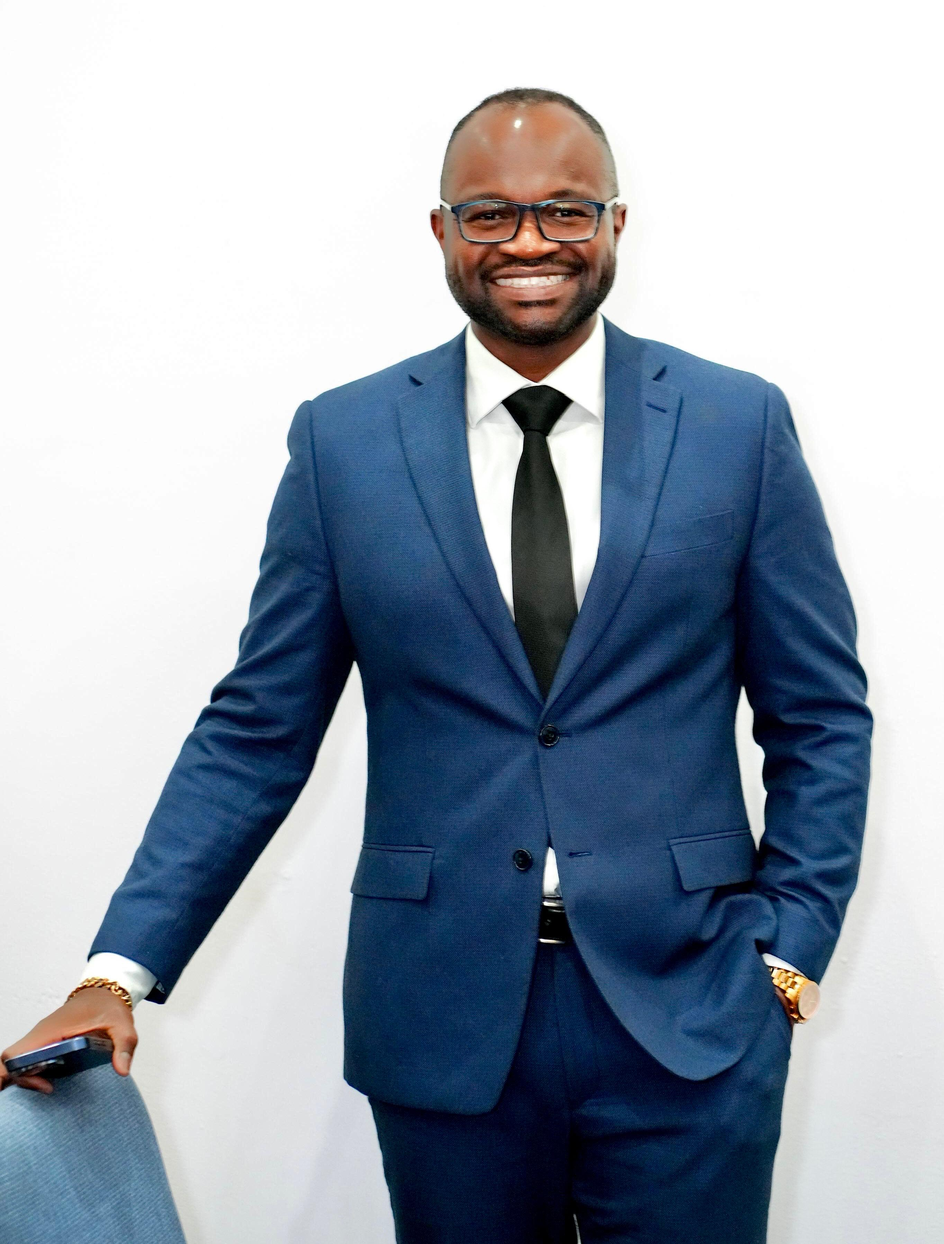
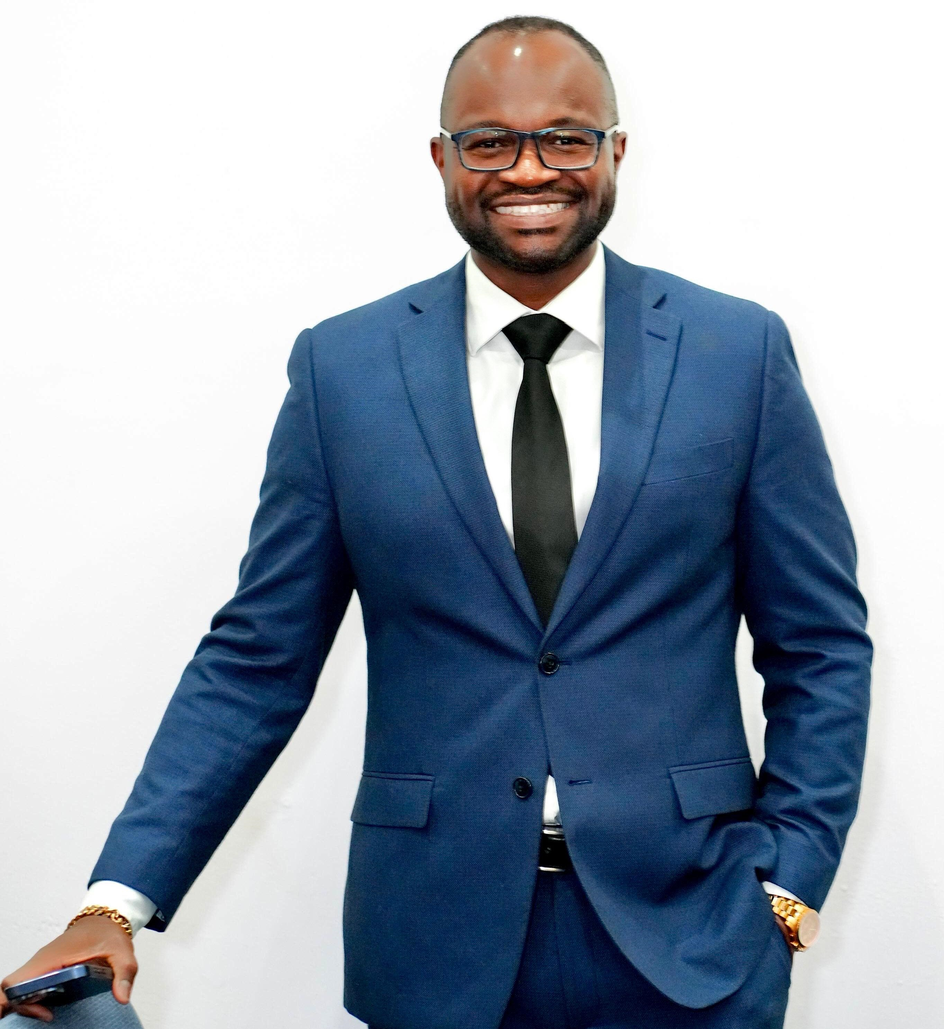
Added Liberia Project And Edited Pic For Donald

Changed region(s): [[0.0, 0.0, 0.9351, 1.0], [0.3117, 0.3097, 0.3429, 0.3406]]

diff --git a/about.html b/about.html
@@ -116,13 +116,15 @@
         <div class="row gy-5">
 
           <div class="col-lg-6 col-md-6 member" data-aos="fade-up" data-aos-delay="100">
-            <div class="">
+            <div>
               <img src="assets/img/donald.jpg" alt="" class="img-fluid">
             </div>
+          </div>
+          <div class="col-lg-6 col-md-6 member" data-aos="fade-up" data-aos-delay="100">
             <div class="member-info text-center">
               <h4>Donald Buaku,<br> AICP, assoc. AIA</h4>
               <span>President / Lead Designer</span>
-              <p class="text-start">
+              <p class="text-start mb-2">
                 Donald Buaku brings two decades of urban design, urban planning, land development and architecture
                 experience. He is a
                 Certified Planner with the American Institute of Certified Planners, and an Associate of the American
@@ -133,7 +135,7 @@
                 graduated from the
                 University of Michigan, Ann Arbor, with two master’s degrees in urban design and urban planning.
               </p>
-              <p class="text-start">
+              <p class="text-start mb-2">
                 Donald is passionate about design, placemaking and infrastructure planning - with the consciousness that
                 placemaking is
                 only successful if the underlying infrastructure is well-planned to support it, and the surrounding

diff --git a/recent-work.html b/recent-work.html
@@ -467,6 +467,25 @@
             </div>
             <!-- End Projects Item -->
 
+            <div class="col-lg-4 col-md-6 portfolio-item filter-global">
+              <div class="portfolio-content h-100">
+                <img src="assets/img/visioning/visioning-2.jpg" class="img-fluid" alt="">
+                <div class="portfolio-info">
+                  <h4>Liberia</h4>
+                  <p>
+                    Grain of Paradise Ecolodge, Sembehun, Liberia - master planning, site design,
+                    architecture, sustainability systems
+                    planning.
+                  </p>
+                  <a href="assets/img/visioning/visioning-2.jpg" title="Grain of Paradise Ecolodge, Sembehun, Liberia - master planning, site design,
+                              architecture, sustainability systems
+                              planning." data-gallery="portfolio-gallery-recent-work" class="glightbox preview-link"><i
+                      class="bi bi-zoom-in"></i></a>
+                </div>
+              </div>
+            </div>
+            <!-- End Projects Item -->
+
           </div>
           <!-- End Projects Container -->
 
